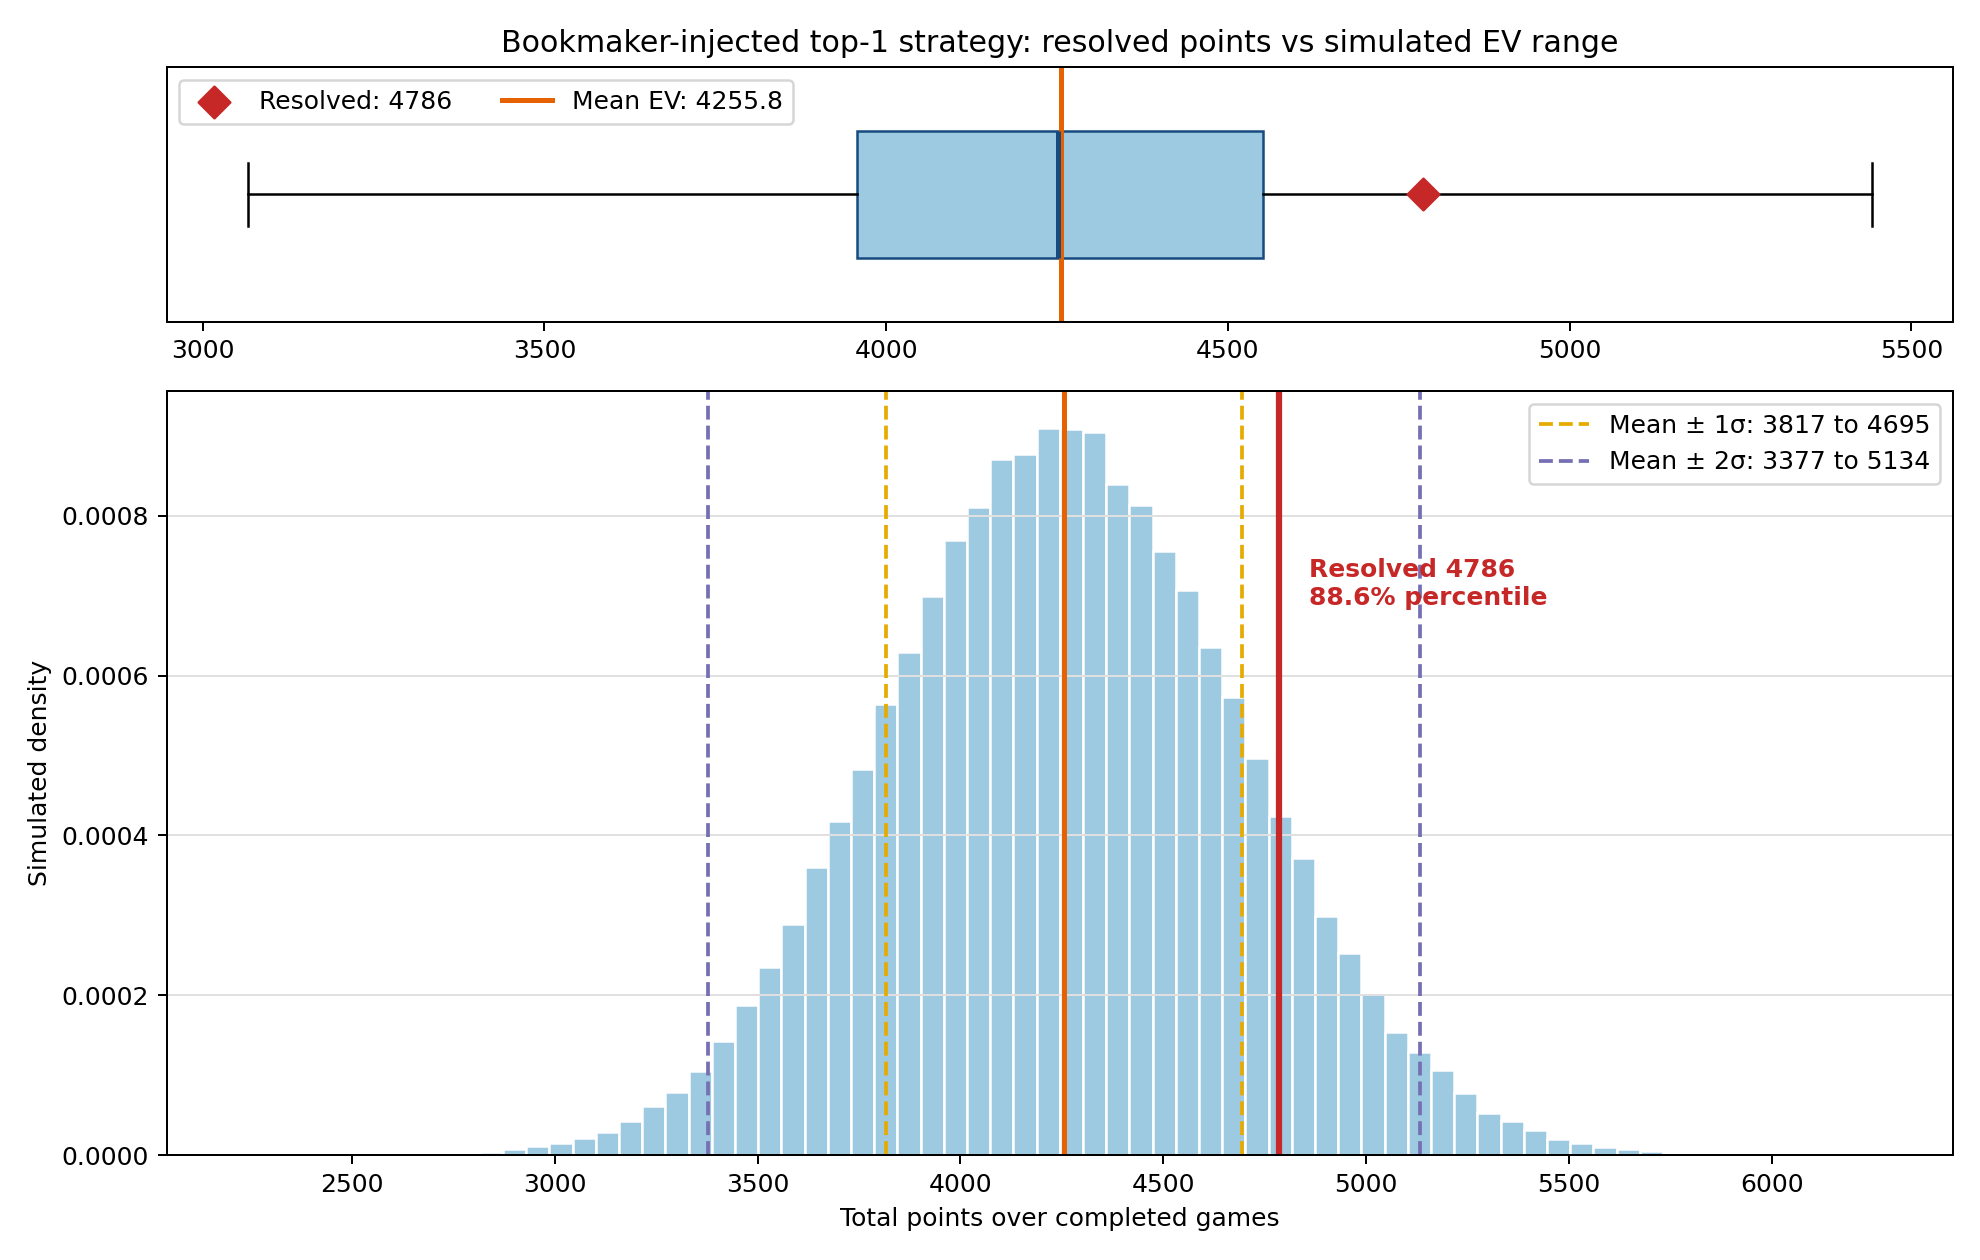
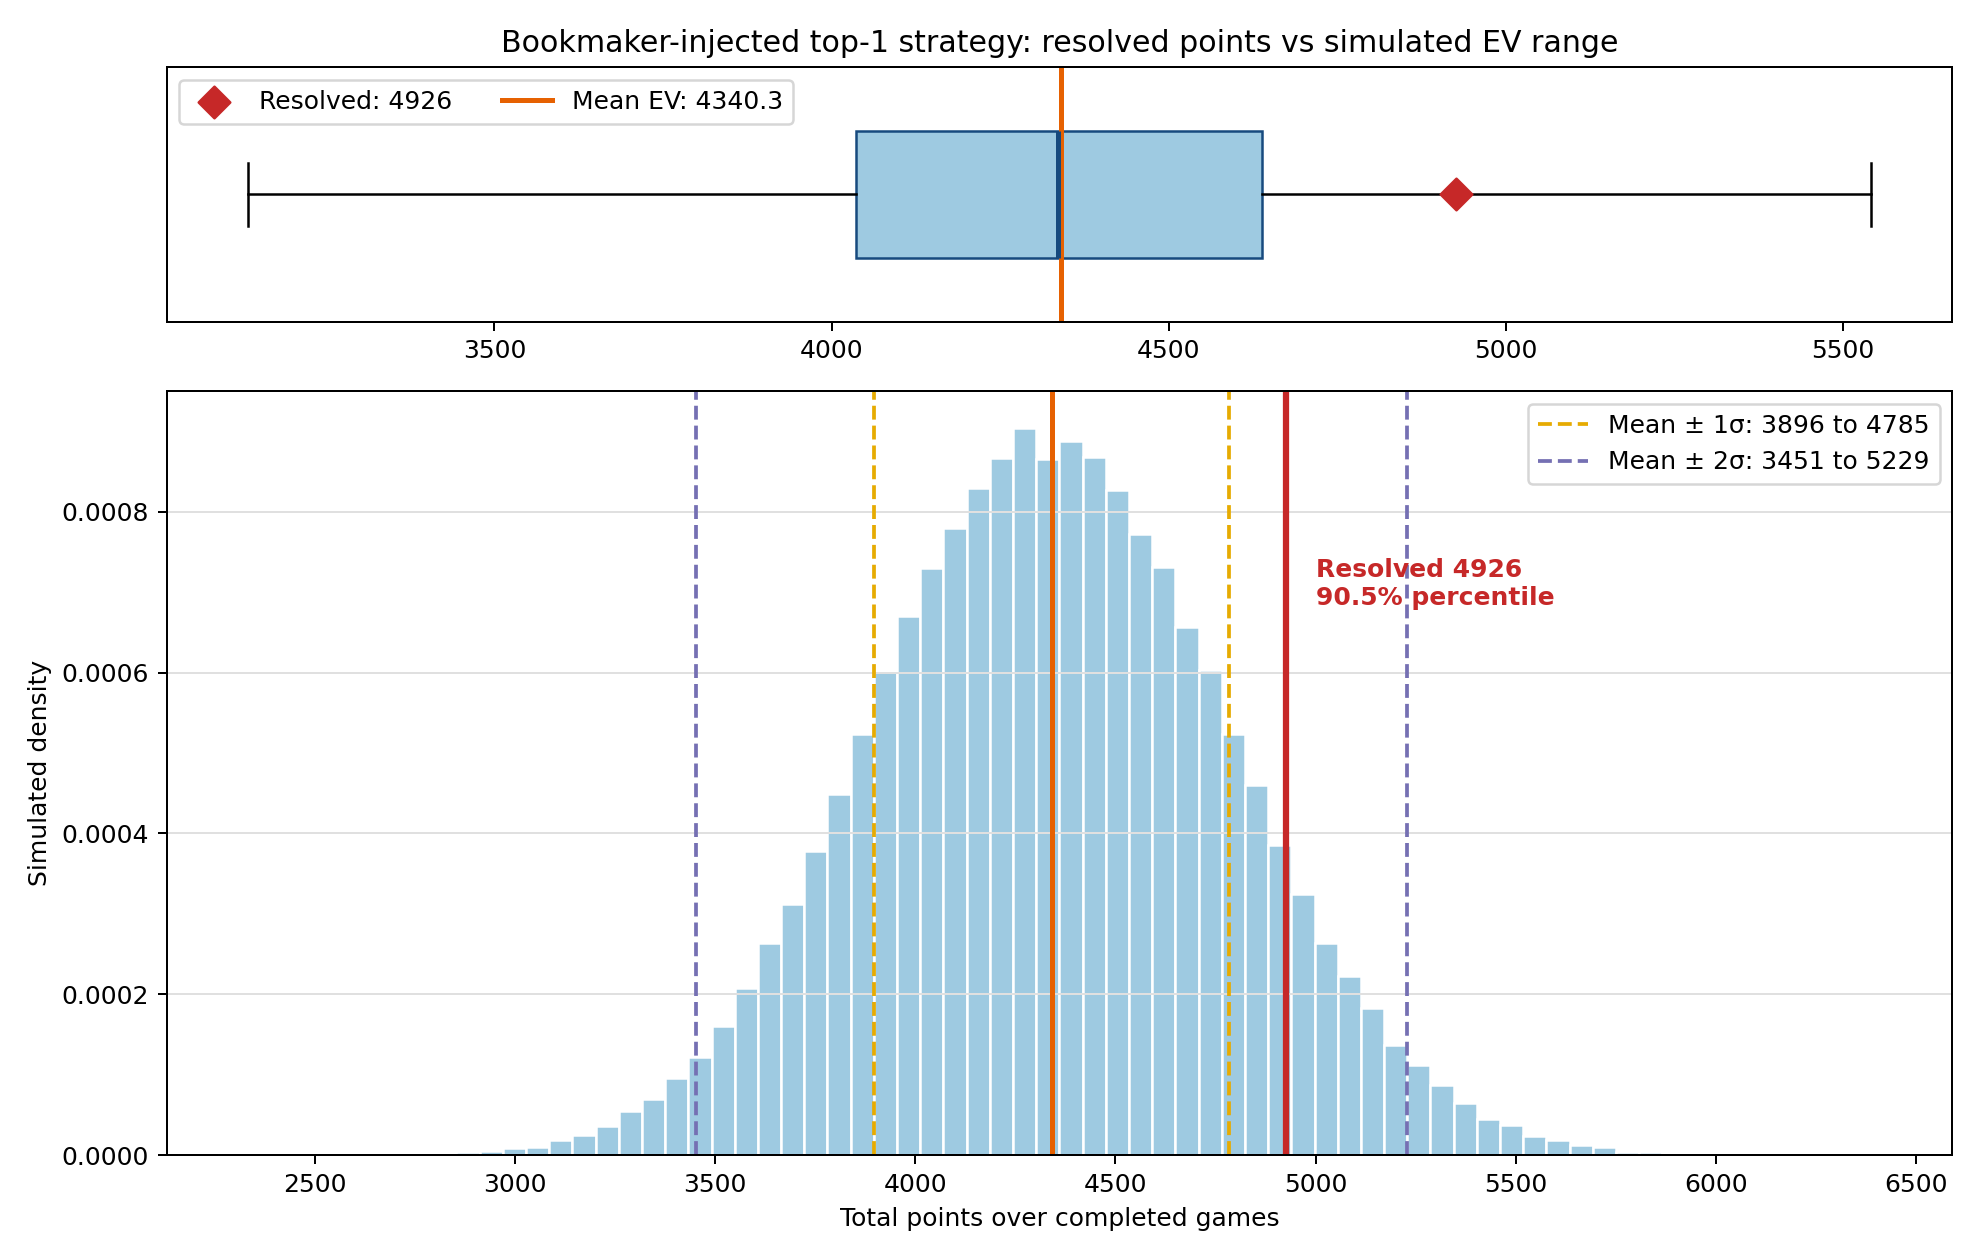
finals

diff --git a/data/analysis/strategy_simulations/analyze_bookmaker_injected_results.py b/data/analysis/strategy_simulations/analyze_bookmaker_injected_results.py
@@ -1059,6 +1059,112 @@ def write_resolved_random_player_plot(
     plt.close(fig)
 
 
+def write_resolved_edge_distribution_plot(
+    path: Path,
+    random_totals: np.ndarray,
+    bookmaker_realized: float,
+    title: str = "Bookmaker-injected edge over sampled random players",
+) -> None:
+    os.environ.setdefault("MPLCONFIGDIR", "/tmp/mpp-matplotlib")
+    Path(os.environ["MPLCONFIGDIR"]).mkdir(parents=True, exist_ok=True)
+    import matplotlib
+
+    matplotlib.use("Agg")
+    import matplotlib.pyplot as plt
+
+    differences = bookmaker_realized - random_totals
+    mean = float(np.mean(differences))
+    sigma = float(np.std(differences))
+    random_ahead_share = float(np.mean(differences < 0))
+    bookmaker_ahead_share = float(np.mean(differences >= 0))
+
+    fig, ax = plt.subplots(figsize=(12, 6))
+    densities, bin_edges, _ = ax.hist(
+        differences,
+        bins=70,
+        density=True,
+        alpha=0.58,
+        color="#2ca02c",
+        edgecolor="white",
+        linewidth=0.25,
+        label=f"Bookmaker edge ({bookmaker_ahead_share:.1%} vs random players)",
+    )
+    negative_label_added = False
+    for left, right, height in zip(bin_edges[:-1], bin_edges[1:], densities):
+        if left >= 0:
+            continue
+        shade_right = min(right, 0)
+        if shade_right <= left:
+            continue
+        ax.bar(
+            left,
+            height,
+            width=shade_right - left,
+            align="edge",
+            color="#d62728",
+            alpha=0.38,
+            edgecolor="none",
+            label=(
+                f"Random players ahead: {random_ahead_share:.1%}"
+                if not negative_label_added
+                else None
+            ),
+        )
+        negative_label_added = True
+
+    y_top = ax.get_ylim()[1]
+    ax.axvline(
+        0,
+        color="#555555",
+        linewidth=1.4,
+        alpha=0.75,
+        label="Break-even",
+    )
+    ax.axvline(
+        mean,
+        color="#2ca02c",
+        linewidth=1.8,
+        linestyle="--",
+        label="Mean edge",
+    )
+    ax.annotate(
+        f"Random ahead: {random_ahead_share:.1%}",
+        xy=(0, y_top * 0.88),
+        xytext=(8, 0),
+        textcoords="offset points",
+        color="#d62728",
+        fontsize=9,
+        fontweight="bold",
+    )
+    ax.annotate(
+        f"Mean edge: {mean:+.1f}",
+        xy=(mean, y_top * 0.76),
+        xytext=(8, 0),
+        textcoords="offset points",
+        color="#2ca02c",
+        fontsize=9,
+        fontweight="bold",
+    )
+    ax.set_title(title)
+    ax.set_xlabel("Bookmaker-injected resolved points minus random-player points")
+    ax.set_ylabel("Player density")
+    ax.grid(axis="y", color="#e0e0e0", linewidth=0.8)
+    ax.legend(loc="upper left", fontsize=9)
+    ax.text(
+        0.99,
+        0.95,
+        f"Mean / sd: {mean:+.1f} / {sigma:.1f}",
+        transform=ax.transAxes,
+        ha="right",
+        va="top",
+        fontsize=9,
+    )
+    fig.tight_layout()
+    path.parent.mkdir(parents=True, exist_ok=True)
+    fig.savefig(path, dpi=180)
+    plt.close(fig)
+
+
 def main() -> None:
     parser = argparse.ArgumentParser()
     parser.add_argument("--prediction-file", default=DEFAULT_PREDICTION_FILE)
@@ -1211,6 +1317,13 @@ def main() -> None:
                 realized,
             )
             print(f"Saved resolved random-player plot: {resolved_plot}")
+            resolved_edge_plot = out_dir / "bookmaker_vs_random_resolved_edge_distribution.png"
+            write_resolved_edge_distribution_plot(
+                resolved_edge_plot,
+                random_resolved_totals,
+                realized,
+            )
+            print(f"Saved resolved edge plot: {resolved_edge_plot}")
 
     print(f"Completed bookmaker top-1 picks: {len(picks)}")
     print(f"Realized points: {realized:.2f}")

diff --git a/simulate_bookmaker_injected.py b/simulate_bookmaker_injected.py
@@ -20,6 +20,9 @@ DEFAULT_OUT_DIR = Path("data/analysis/strategy_simulations/bookmaker_injected")
 DEFAULT_PLOT = DEFAULT_OUT_DIR / "top1_luck_distribution.png"
 DEFAULT_COMPARISON_PLOT = DEFAULT_OUT_DIR / "top1_vs_random_player_distribution.png"
 DEFAULT_RANDOM_RESOLVED_PLOT = DEFAULT_OUT_DIR / "random_player_resolved_points_distribution.png"
+DEFAULT_RESOLVED_EDGE_PLOT = (
+    DEFAULT_OUT_DIR / "bookmaker_vs_random_resolved_edge_distribution.png"
+)
 DEFAULT_ROLLOUTS = 200_000
 DEFAULT_SEED = 20260615
 BETTOR_SHARE_TRANSFER = "transfer"
@@ -123,6 +126,7 @@ def run_simulation(
     difference_percentile = float((difference_totals <= difference_realized).mean())
     comparison_plot = DEFAULT_COMPARISON_PLOT
     random_resolved_plot = DEFAULT_RANDOM_RESOLVED_PLOT
+    resolved_edge_plot = DEFAULT_RESOLVED_EDGE_PLOT
     bookmaker_simulation.write_comparison_plot(
         comparison_plot,
         totals,
@@ -139,6 +143,12 @@ def run_simulation(
         random_resolved_totals,
         realized,
         title="Resolved random-player scores vs bookmaker top-1",
+    )
+    bookmaker_simulation.write_resolved_edge_distribution_plot(
+        resolved_edge_plot,
+        random_resolved_totals,
+        realized,
+        title="Bookmaker top-1 edge over sampled random players",
     )
 
     print("")
@@ -171,6 +181,7 @@ def run_simulation(
         f"{bookmaker_vs_random_resolved_percentile:.2%}"
     )
     print(f"Saved resolved random-player plot: {random_resolved_plot}")
+    print(f"Saved resolved edge plot: {resolved_edge_plot}")
     return True
 
 

diff --git a/README.md b/README.md
@@ -91,21 +91,39 @@ based on `data/odds_snapshots/2026/07/world_cup_semifinal_odds_20260715T070139Z.
 The transfer adjustment mainly changes rarity around draw-adjacent scores, such
 as `1-0` and `0-1`.
 
+The raw injected exact-score odds and bettor percentages are kept in
+[`data/bookmaker_injected/bookmaker_score_odds.csv`](data/bookmaker_injected/bookmaker_score_odds.csv).
+That file is the best starting point for future exploration, strategy variants,
+and backtests that build on the bookmaker-injected workflow.
+
 ## Latest Bookmaker vs Random-Player Simulation 🧪
 
 Latest full run:
 
-- Completed bookmaker-injected top-1 picks: **102**
-- Bookmaker top-1 resolved points: **4786.00**
-- Bookmaker logged EV: **4255.74**
-- Random-player resolved expected points: **3897.97**
-- Realized edge vs random-player baseline: **+888.03**
-- Bookmaker top-1 percentile vs sampled random players: **98.72%**
+- Completed bookmaker-injected top-1 picks: **104**
+- Bookmaker top-1 resolved points: **4926.00**
+- Bookmaker logged EV: **4339.91**
+- Mean resolved points per game: **47.37**
+- Correct outcome predictions: **68 / 104** (**65.38%**)
+- Exact-score predictions: **13 / 104** (**12.50%**)
+- Random-player resolved mean: **3953.82** points
+- Bookmaker top-1 percentile vs sampled random players: **99.20%**
+- Sampled random players finishing ahead: **0.80%**
 
 ![Latest bookmaker-injected top-1 vs random-player simulation](data/analysis/strategy_simulations/bookmaker_injected/top1_vs_random_player_distribution.png)
 
+![Bookmaker-injected resolved edge over sampled random players](data/analysis/strategy_simulations/bookmaker_injected/bookmaker_vs_random_resolved_edge_distribution.png)
+
 The transfer-aware simulation uses transferred bettor shares for elimination
 games and no-transfer rows for non-elimination games.
+
+> [!NOTE]
+> **Playing note:** blindly playing the top EV pick every game is effective,
+> but it is not the most fun way to play MPP. The skill shows up in the small,
+> intentional deviations from the optimal strategy: managing risk, contest
+> context, personal convictions, and the occasional well-timed contrarian pick.
+> My personal account finished **150 points ahead** of the bot account, which is
+> a useful reminder that the model is a baseline, not a substitute for judgment.
 
 ## Resolved Bookmaker-Injected Bets
 
